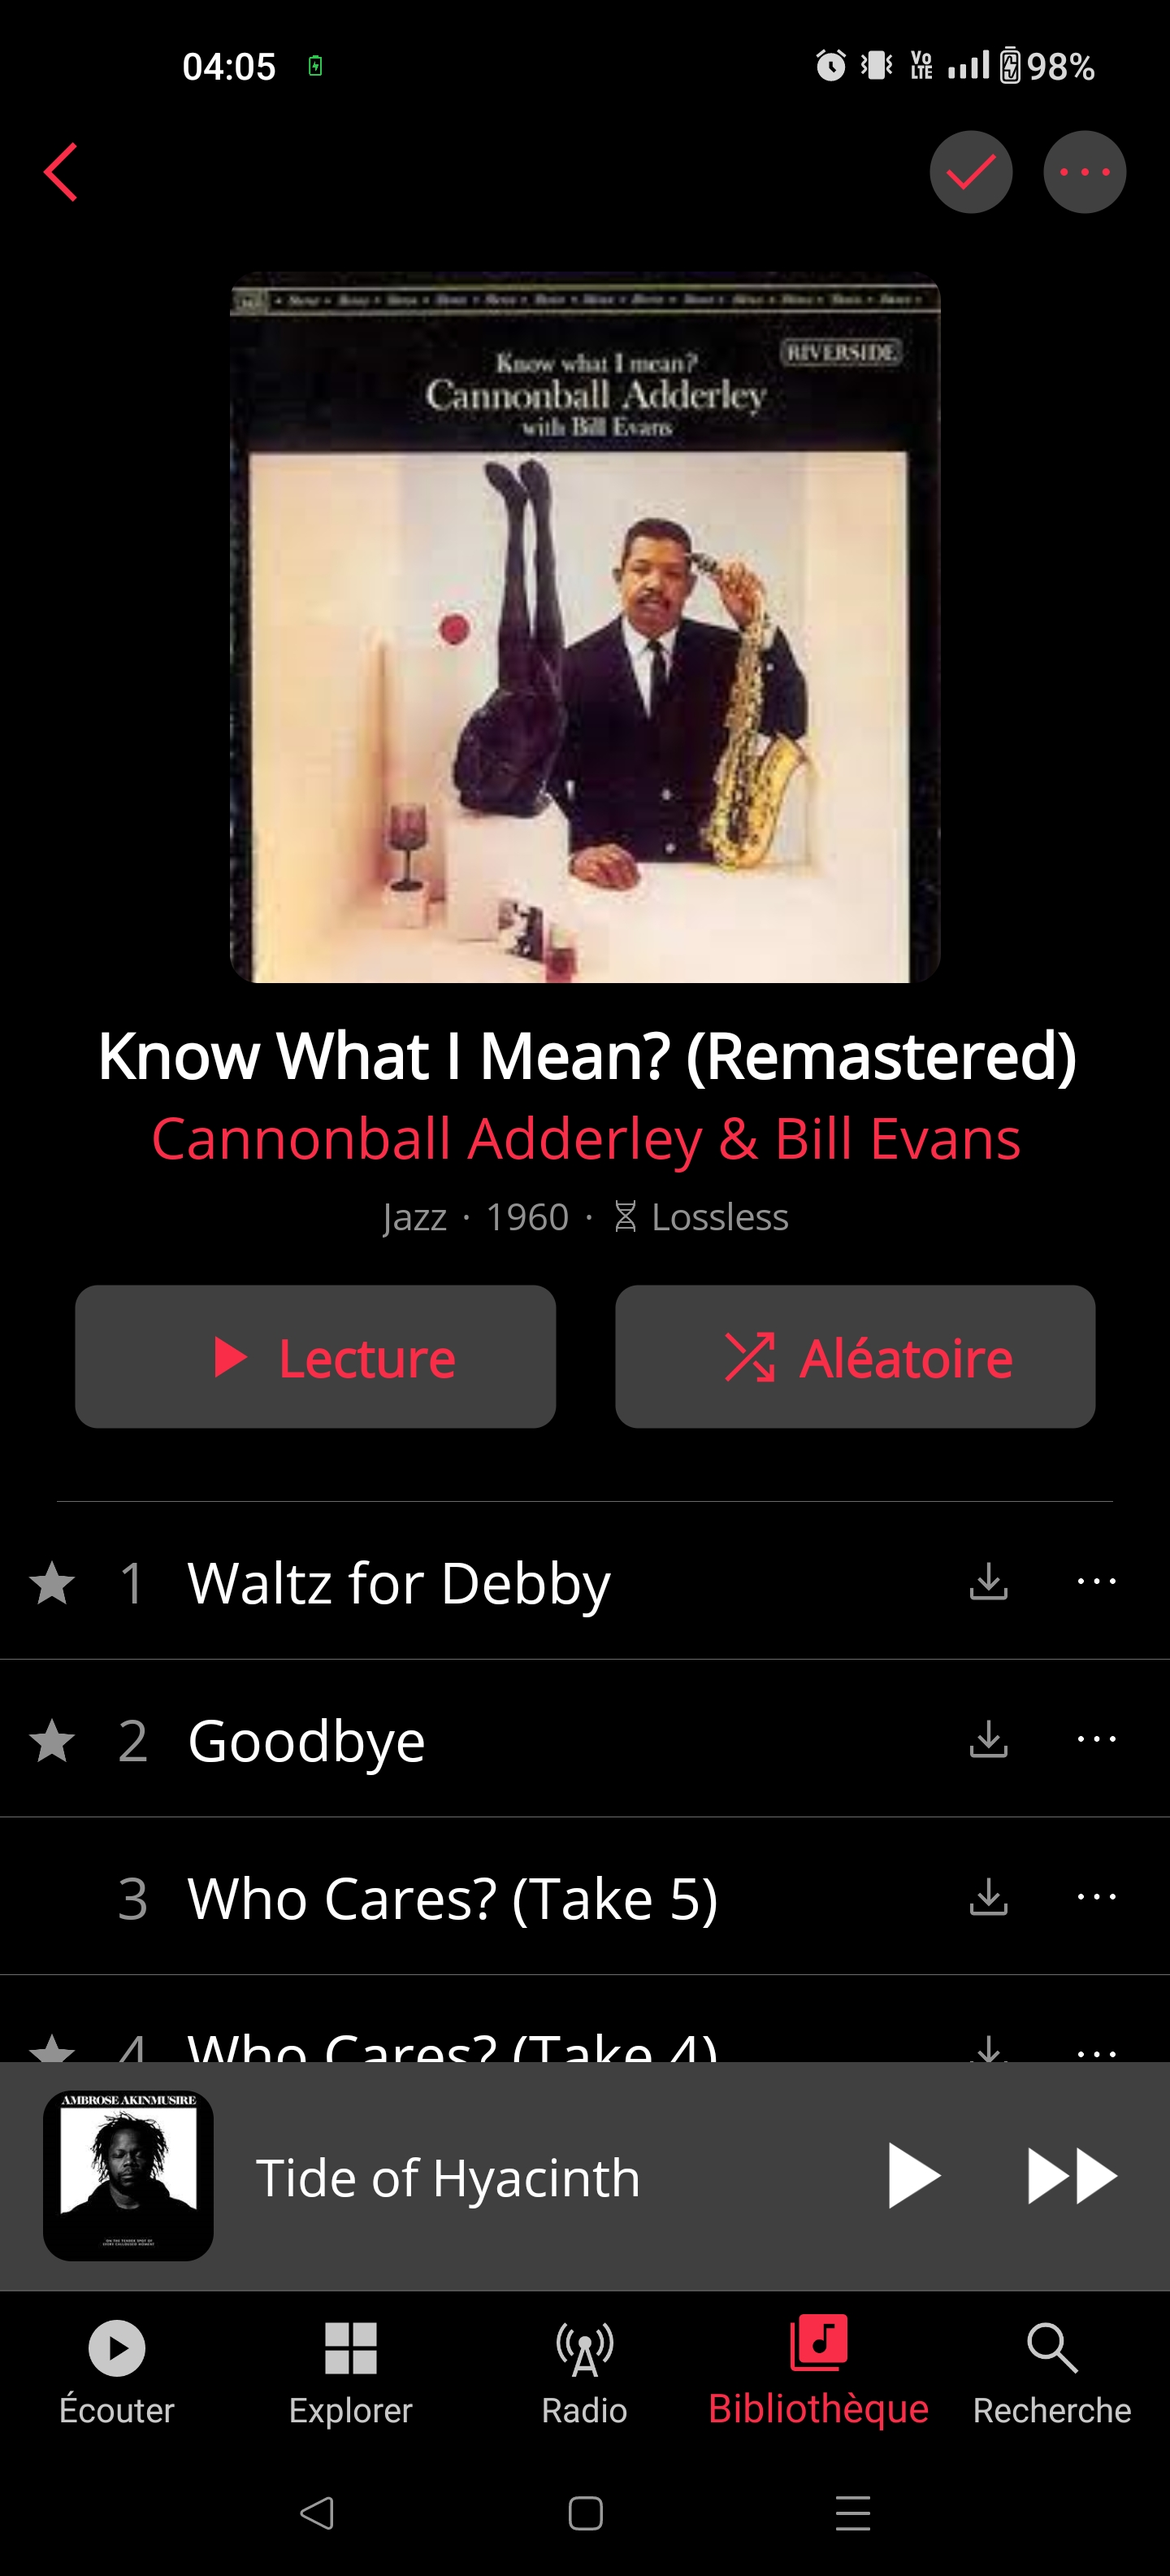
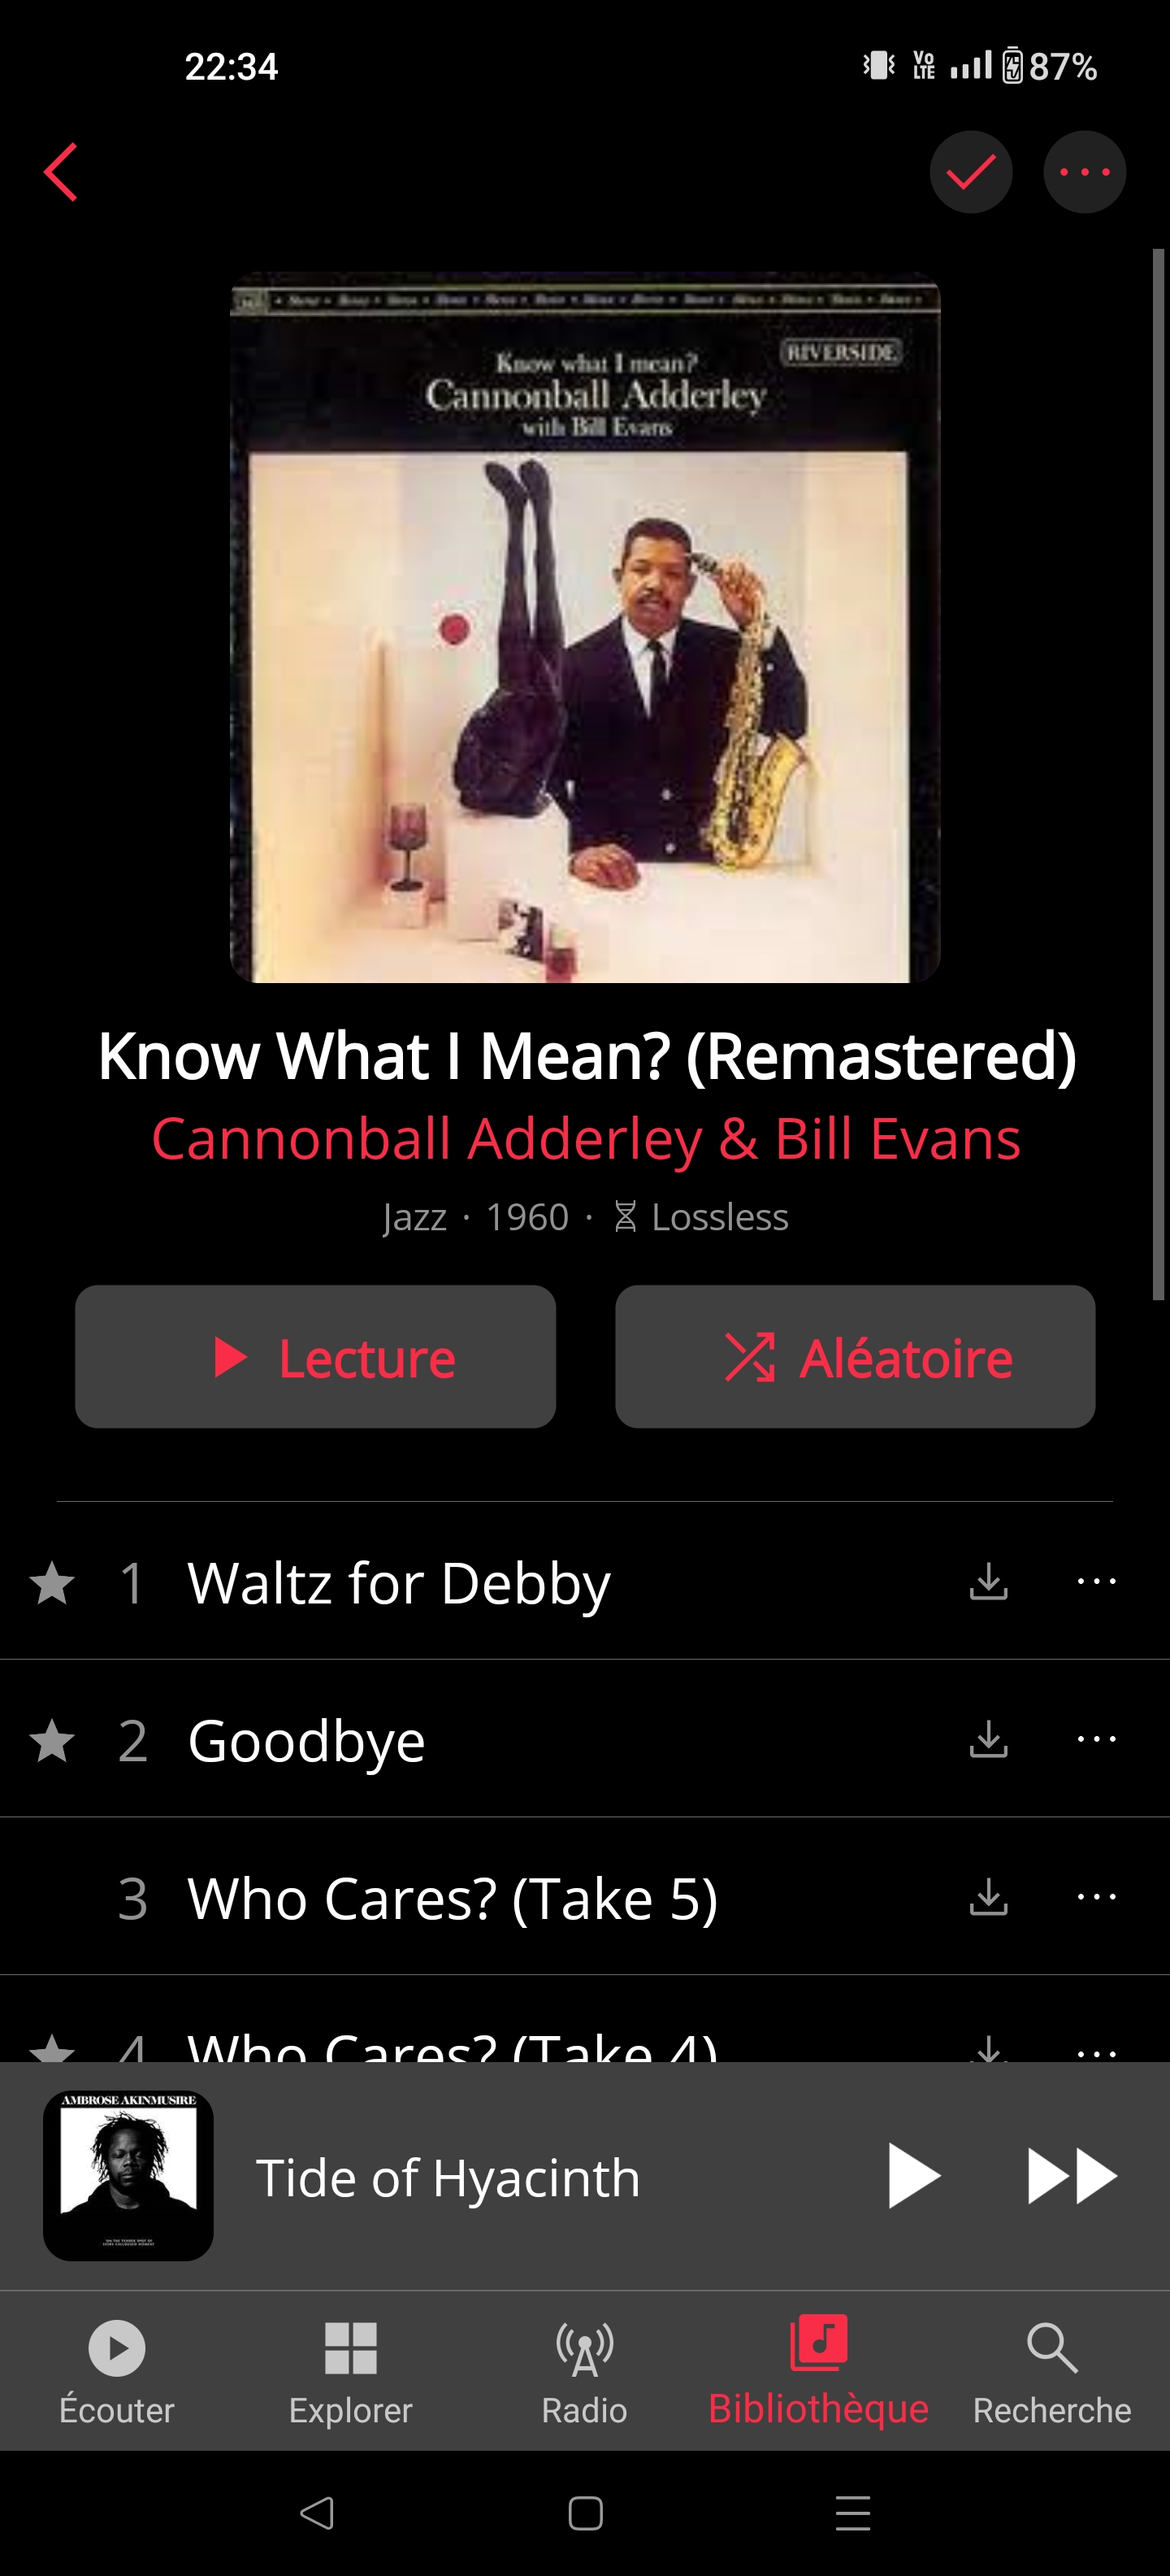
Update readme with new images and try fixing statusbarcolor

diff --git a/Sources/MauppleMusic/AppShell.xaml b/Sources/MauppleMusic/AppShell.xaml
@@ -8,7 +8,7 @@
     Shell.FlyoutBehavior="Disabled">
     
     <Shell.Behaviors>
-        <toolkit:StatusBarBehavior StatusBarColor="{AppThemeBinding Light={StaticResource White}, Dark={StaticResource Black}}"/>
+        <toolkit:StatusBarBehavior StatusBarColor="{AppThemeBinding Light={StaticResource Transparent}, Dark={StaticResource Black}}"/>
     </Shell.Behaviors>
 
     <TabBar>

diff --git a/Sources/MauppleMusic/Resources/Styles/Colors.xaml b/Sources/MauppleMusic/Resources/Styles/Colors.xaml
@@ -9,7 +9,9 @@
     <Color x:Key="Tertiary">#f92c60</Color>
 
     <Color x:Key="LightBlue">#F1F1F1</Color>
-    
+
+    <Color x:Key="Transparent">#00FFFFFF</Color>
+
     <Color x:Key="White">White</Color>
     <Color x:Key="Black">Black</Color>
     
